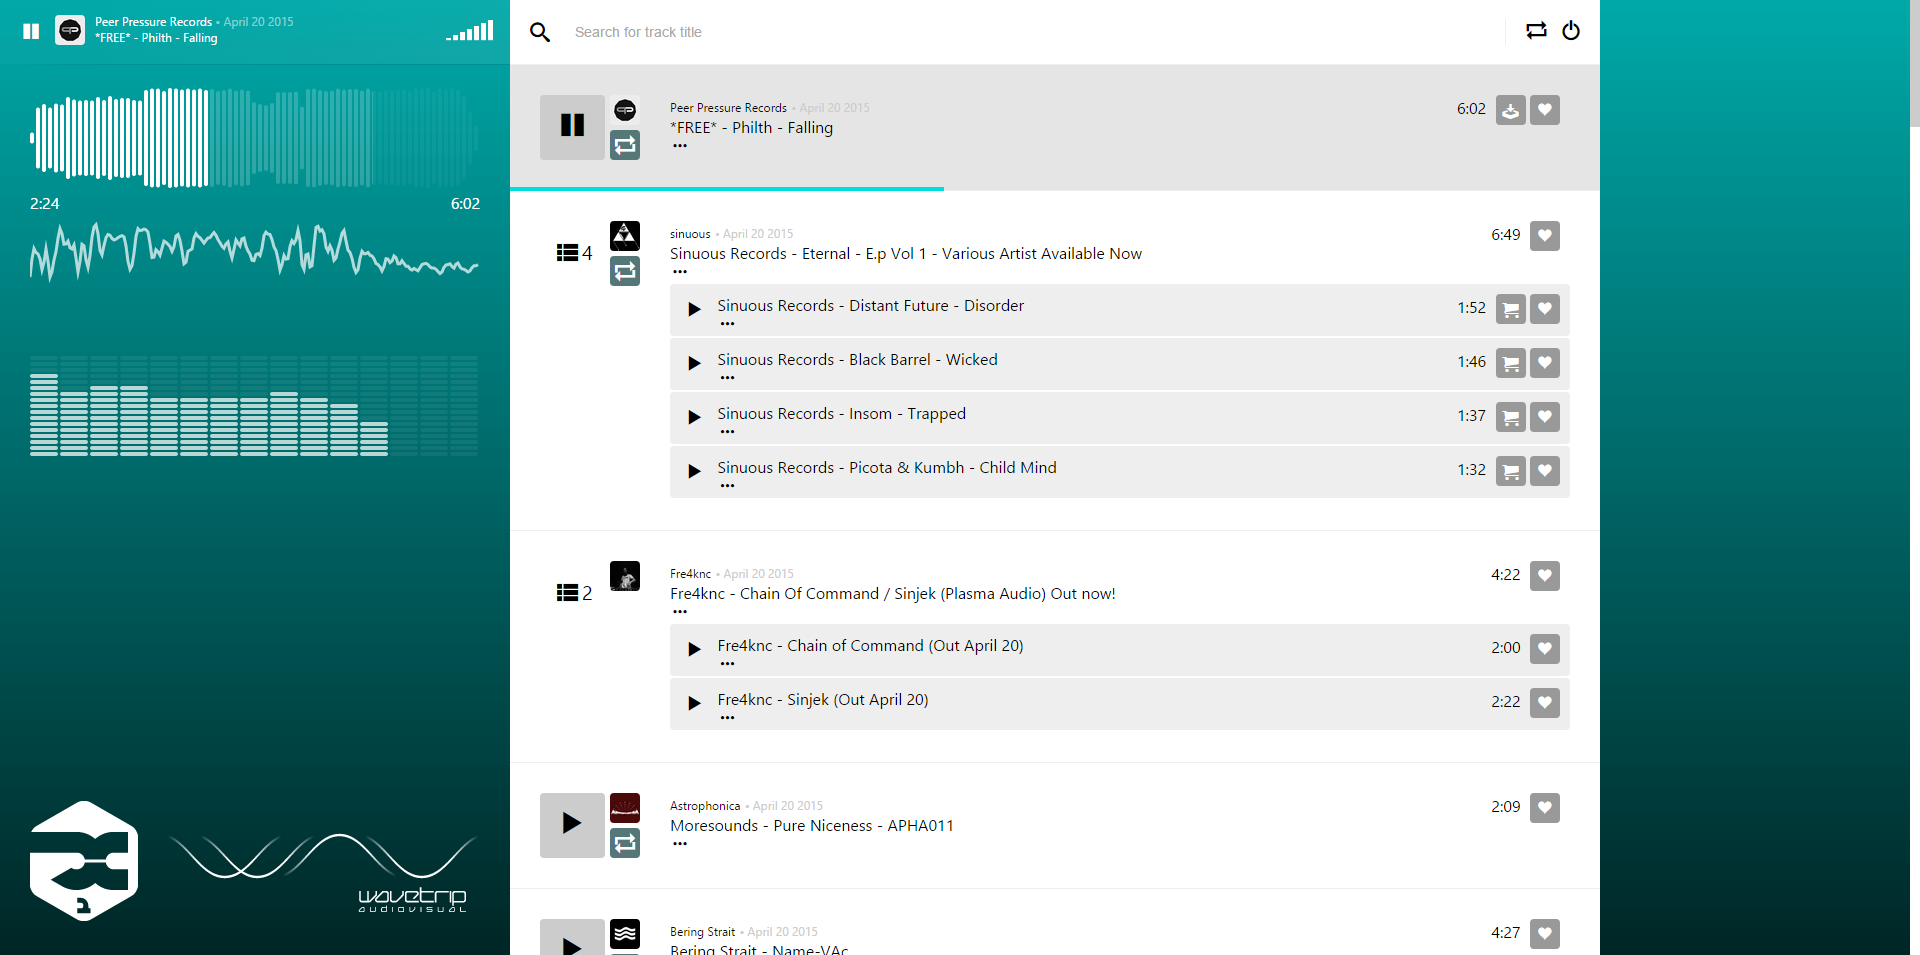
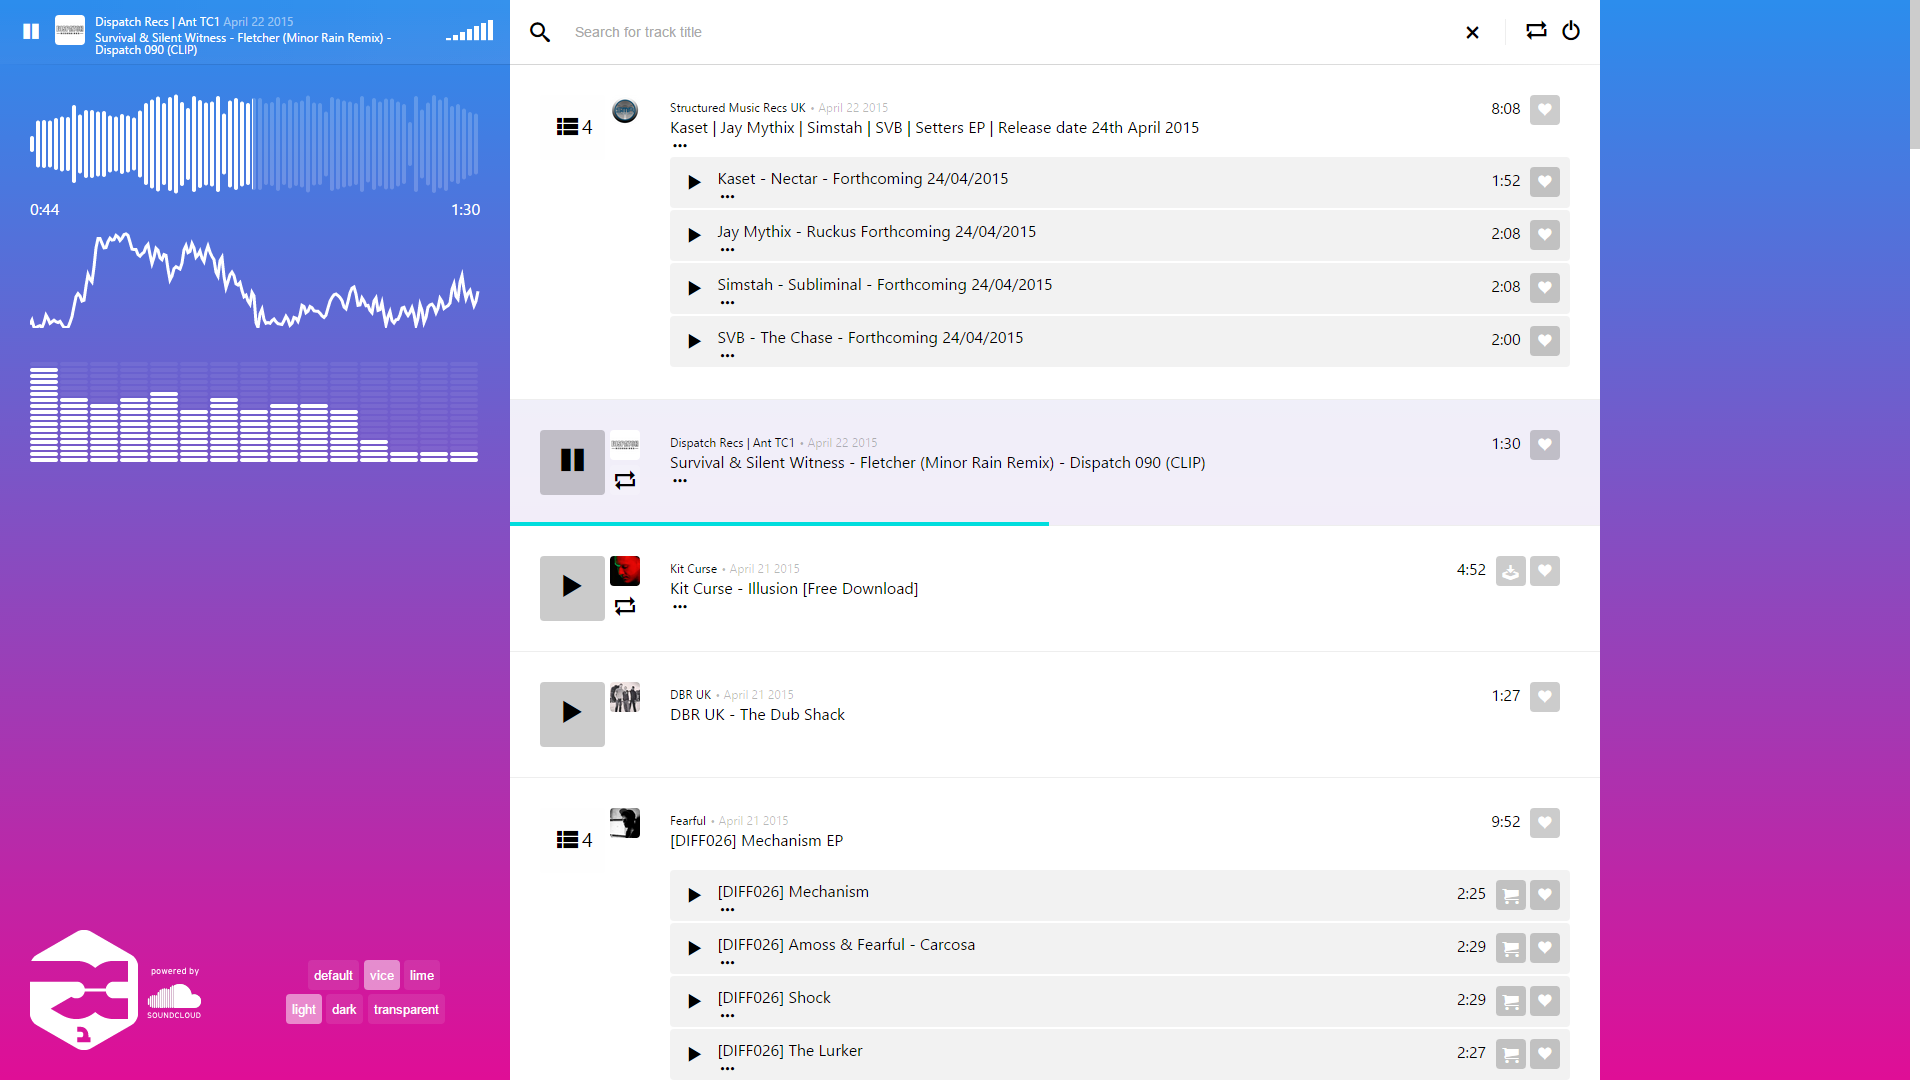
Update readme and preview

diff --git a/README.md b/README.md
@@ -1,4 +1,13 @@
 # sc2
 revamped UI for my previous project [sc](https://github.com/dekztah/sc)
+soundcloud user stream built with AngularJS using Web Audio API
+
+- dark, light, transparent mode
+- 3 different background presets
+- spectrum analyser
+- oscilloscope
+- playlist support
+- toggle reposts
+
 
 ![alt tag](https://raw.githubusercontent.com/dekztah/sc2/master/sc2_preview.png)
